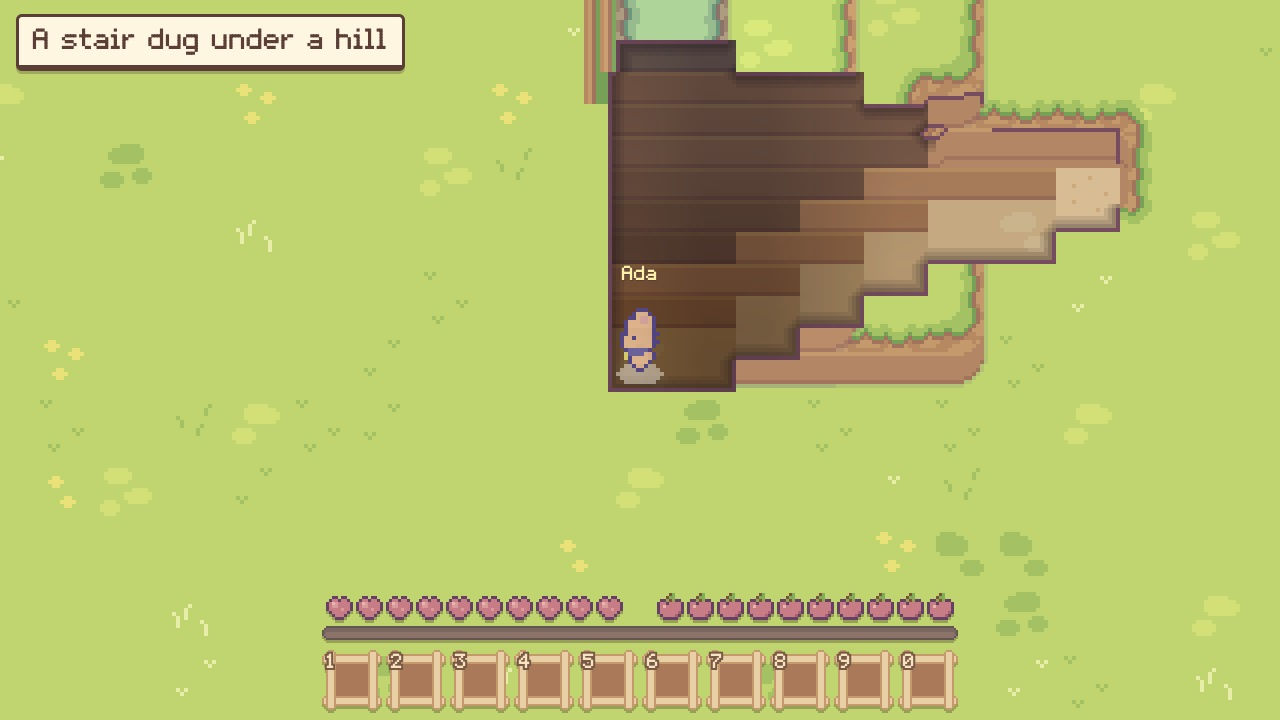
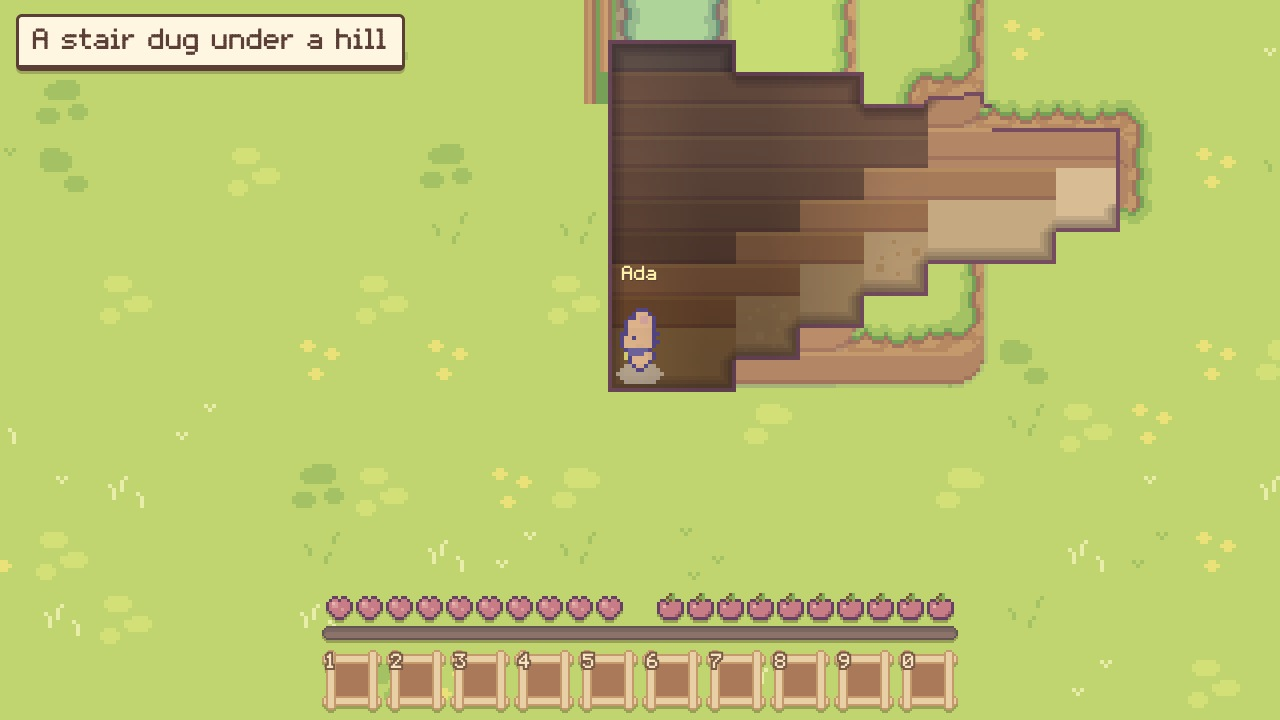
fix(web): a wall cut through is its bands and no more: no hook, no strip
A wall cut through is its bands and no more: no hook, no strip where a roofed stair meets an open pit ("weird artefact here"); the demo's pages name their files with the build's mark

The slivers made into wall were not marked as wall, so no line ran beside them; the end of a ledge that hung from the
roof's side and the band under it stood in the pit's wall, two px out of step; the meadow's set-in edge beside a pit,
painted a level down, was taken for ground level with its floor. tools/build_pages.py: every script, style, clip, the
worker and the game's Python get ?v=<the build's hash>, so a page loaded again after a publish is the new build.

Claude-Session: https://claude.ai/code/session_011zaXs2MUMAd8vYwC7YncED

diff --git a/src/megastructure/web/js/xraycut.js b/src/megastructure/web/js/xraycut.js
@@ -10,11 +10,11 @@
 //    earth stopped square against the grass). Not where the land's own edge is (round a hole open to the sky: its
 //    grass hangs there), nor toward ground that goes on level with it (a way out).
 // c: the picture's {W, h (px), w (tiles), R (its rect of tiles), y (its top, art px), see, seen, floor, floors, place,
-// rocks}. -> {px: what to lay over it, cut: the tiles of 1, more: the px it added to seen, line: the px of the
+// rocks, paint (its px as the land's painter left them)}. -> {px: what to lay over it, cut: the tiles of 1, more: the px it added to seen, line: the px of the
 // outline round the place where it is under a roof, dug or cut (xrayviews.js; null: no such place, a hill in front and
 // no more)}
 const CUT = {earth: 110, ink: [112, 70, 58], lip: [.34, .22, .11]};   // how dark earth cut through is (of 255); the edge's ink; its shadow, a px each
-function xrayCut({W, h, w, R, y, see, seen, floor, floors, place, rocks}) {
+function xrayCut({W, h, w, R, y, see, seen, floor, floors, place, rocks, paint}) {
   const n = W * h, px = new Uint32Array(n), al = new Float32Array(n), fill = new Uint8Array(n), cuts = new Map(), sa = CUT.earth / 255;
   const soil = colsOf(hillSheet(0)).bands[1], earth = [0, 1, 2].map((q) => soil[q] * (1 - sa) + [30, 20, 28][q] * sa);
   let more = 0;
@@ -38,23 +38,38 @@ function xrayCut({W, h, w, R, y, see, seen, floor, floors, place, rocks}) {
   for (const [k, lv] of cuts) { const [x, ty] = k.split(",").map(Number); deepT[(ty - R.y) * w + x - R.x] = 1; cutLv.set((ty - R.y) * w + x - R.x, lv); }
   const lvOf = (i, j) => (i >= 0 && i < w && j >= 0 && j < R.h && cutLv.has(j * w + i) ? cutLv.get(j * w + i) : lvT[at(i, j)]);
   const deep = new Uint8Array(n), dist = new Uint8Array(n).fill(255), todo = [], wall = new Map();
+  const roofT = new Uint8Array(w * R.h), band = (k, m) => colsOf(hillSheet(k)).bands[m <= 0 ? 0 : m >= 7 ? 2 : 1];
+  for (const k of floor.keys()) { const [x, ty] = k.split(",").map(Number), i = x - R.x, j = ty - R.y; if (i >= 0 && i < w && j >= 0 && j < R.h) roofT[j * w + i] = 1; }
+  const rows = (i, j) => { const f0 = lvOf(i, j), Y = (R.y + j) * 16 - y; return [Y, Y - shOf(Math.max(f0, lvOf(i, j - 1))), Y - shOf(f0)]; };   // (a tile's line at sea level, the top of the wall behind it, the top of its floor)
   for (let j = 0; j < R.h; j++) for (let i = 0; i < w; i++) if (deepT[j * w + i]) {
-    const f0 = lvOf(i, j), Y = (R.y + j) * 16 - y, r0 = Y - shOf(Math.max(f0, lvOf(i, j - 1))), r1 = Y - shOf(f0) + 16;
-    const roofed = floor.has((R.x + i) + "," + (R.y + j));
-    for (let r = Math.max(0, r0 - 3); r < Math.min(h, r1); r++) for (let f = r * W + i * 16, e = f + 16; f < e; f++) {
-      const back = roofed && r >= r0 && r < Y - shOf(f0), put = fill[f] || see.state[f] === 1;   // (back: over the floor of a tile under a roof: the wall behind it, whatever was painted)
+    const [Y, r0, top] = rows(i, j), t = j * w + i, roofed = roofT[t];
+    for (let r = Math.max(0, r0 - 3); r < Math.min(h, top + 16); r++) for (let f = r * W + i * 16, e = f + 16; f < e; f++) {
+      const back = roofed && r >= r0 && r < top, put = fill[f] || see.state[f] === 1;   // (back: over the floor of a tile under a roof: the wall behind it, whatever was painted)
       if ((!put && !back) || (r < r0 && see.band[f] !== 1)) continue;
       if (put && !fill[f]) {                                 // (of what was painted there: the place's floors, and the wall behind this tile, its bands and
-        const ts = tileOf(f), tf = tileOf(f, 4), t = j * w + i;   //  what shows between them of the tile behind, painted a level down; not land that stands in front
-        if (see.band[f] === 2 || (see.band[f] === 1 ? tf !== t : ts < 0 || (!deepT[ts] && (ts !== t - w || see.lev[f] >= lvT[at(ts % w, ts / w | 0)])))) continue;   //  of it or beside it: its top, its wall, a ledge)
+        const ts = tileOf(f), tf = tileOf(f, 4);            //  what shows between them of the tile behind, painted a level down; not land that stands in front
+        if (see.band[f] === 2 ? !back : see.band[f] === 1 ? tf !== t : ts < 0 || (!deepT[ts] && (ts !== t - w || see.lev[f] >= lvT[at(ts % w, ts / w | 0)]))) continue;   //  of it or beside it: its top, its wall, a ledge)
       }
       deep[f] = 1;
       if (!back || fill[f]) continue;
-      // (where the land's painter put no band there, a sliver of the land shows in the wall, through the set-in edge
-      // of a hill that steps down beside it: the wall's band, as it paints it)
-      const k = put && see.band[f] === 1 ? see.lev[f] : Math.ceil((Y - r) / 8), m = r - (Y - shOf(k));
-      if (!put || see.band[f] !== 1 || !seen[f]) { wall.set(f, colsOf(hillSheet(k)).bands[m <= 0 ? 0 : m >= 7 ? 2 : 1]); if (!seen[f]) { seen[f] = 1; more++; } see.lev[f] = k; }
+      // (a wall cut through is its bands, a layer each, and no more: where the land's painter put something else
+      // there, a sliver of grass through the set-in edge of a hill that steps down beside it, the end of a ledge that
+      // hung from the roof's side and the band under it, two px out of step: the band, as it paints it)
+      const k = Math.ceil((Y - r) / 8);
+      if (!put || see.band[f] !== 1 || !seen[f] || see.lev[f] !== k) { wall.set(f, band(k, r - (Y - shOf(k)))); if (!seen[f]) { seen[f] = 1; more++; } see.lev[f] = k; see.band[f] = 1; }
       if (landSolid(R.x + i, R.y + j, k)) al[f] = sa;        // 2
+    }
+  }
+  // (and beside a tile under a roof, the wall of one open to the sky: the four px of it next to that tile had the same
+  // leftovers of the roof's side: they are the wall's own px from further in, row for row)
+  for (let j = 0; j < R.h; j++) for (let i = 0; i < w; i++) if (deepT[j * w + i] && !roofT[j * w + i]) for (const d of [-1, 1]) {
+    if (i + d < 0 || i + d >= w || !roofT[j * w + i + d]) continue;
+    const [, r0, top] = rows(i, j);
+    for (let r = Math.max(0, r0 - 2); r < Math.min(h, top); r++) for (let c = 0; c < 4; c++) {
+      const col = d < 0 ? c : 15 - c, f = r * W + i * 16 + col, src = r * W + i * 16 + (d < 0 ? 4 : 11);
+      if (!deep[src] || fill[src] || see.band[src] === 2) continue;
+      const v = wall.get(src) || [paint[src] & 255, paint[src] >> 8 & 255, paint[src] >> 16 & 255];
+      wall.set(f, v); deep[f] = 1; if (!seen[f]) { seen[f] = 1; more++; } see.lev[f] = see.lev[src]; see.band[f] = see.band[src];
     }
   }
   // (q: beside f, over it or under it: not of the place; and not the land's own edge, the top of a tile beside or
@@ -68,7 +83,8 @@ function xrayCut({W, h, w, R, y, see, seen, floor, floors, place, rocks}) {
     if (deep[q]) return false;
     if (see.state[q] !== 1) return true;
     if (rim && !see.band[q] && rimT[Math.max(0, tileOf(q))]) return false;
-    return see.band[f] || see.band[q] || see.lev[q] > see.lev[f];
+    const ts = tileOf(q);                                    // (ground level with a floor: a tile's own top, not what shows of it a level down through its set-in edge)
+    return see.band[f] || see.band[q] || see.lev[q] > see.lev[f] || ts < 0 || see.lev[q] < lvT[at(ts % w, ts / w | 0)];
   };
   // (line: the outline's px, xrayviews.js: every px of the place at its edge, seen through or not, and beside the
   // land's own rim too; not where its floor goes on level with the ground outside: "the line shouldn't show up at

diff --git a/src/megastructure/web/js/xray.js b/src/megastructure/web/js/xray.js
@@ -213,7 +213,7 @@ function* xrayPicture(tx, key, near) {
       }
     }
   };
-  const {flat: over} = yield* reliefSteps(R, ground, see);
+  const {flat: over, out: paint} = yield* reliefSteps(R, ground, see);
   const holes = caveMouths(near, R.x * 16, y, W, h, (x, ty) => rock(x, ty) || floor.has(x + "," + ty));   // (the mouths of caves in what is kept: caves.js)
   if (holes) over.getContext("2d").drawImage(holes, -OV_M, -OV_M);
   // of it, what the rock is drawn over: the kept ground that is on top there (seen), and its water
@@ -222,7 +222,7 @@ function* xrayPicture(tx, key, near) {
   let any = 0;
   for (let f = 0; f < seen.length; f++) if ((see.cover[f] || XRAY.whole) && see.state[f] === 1) { seen[f] = 1; any++; m[f] = 0xff000000; if (see.wet[f]) wm[f] = 0xff000000; }
   const og = over.getContext("2d"); og.globalCompositeOperation = "destination-in"; og.drawImage(pxCanvas(m, W, h), 0, 0);
-  const {px: earth, cut, more, line} = xrayCut({W, h, w, R, y, see, seen, floor, floors, place, rocks});   // (the earth cut through, and the cut's edge: xraycut.js)
+  const {px: earth, cut, more, line} = xrayCut({W, h, w, R, y, see, seen, floor, floors, place, rocks, paint});   // (the earth cut through, and the cut's edge: xraycut.js)
   any += more; og.globalCompositeOperation = "source-over"; og.drawImage(pxCanvas(earth, W, h), 0, 0);
   const mouths = [...floor.keys()].filter((k) => { const [fx, fy] = k.split(",").map(Number); return [[1, 0], [-1, 0], [0, 1], [0, -1]].some(([dx, dy]) => topAt(fx + dx, fy + dy) < topAt(fx, fy)); }).sort().join(" ");
   return {key, x: R.x * 16, y, w: W, h, over, wet: pxCanvas(wm, W, h), seen, line, any, rock: rocks, floor, cut, mouths, place: floors, lev: see.lev, depth: underDepths(floor), rx: R.x, ry: R.y, rw: w, rh: R.h};

diff --git a/src/megastructure/web/js/relief.js b/src/megastructure/web/js/relief.js
@@ -131,7 +131,7 @@ function levelShape(R, k, shape, ta, tb, keep, of) {
 }
 // Painted lowest level first into one picture, a few rows a step (so no frame waits on a whole block). ground: the
 // rect's tiles as painted flat, a Uint32 a px (a block's: tiles.js). The picture is px too, worked out here and made
-// a canvas once, at the end: nothing of it is put together by the GPU. -> {flat, up, maxLv, minLv}: the picture is
+// a canvas once, at the end: nothing of it is put together by the GPU. -> {flat, up, maxLv, minLv, out}: the picture is
 // `up` px taller than the rect at its top (the highest level's lift), the lowest level's worth at its foot.
 // see (xray.js): the land without the rock in the way. Only the tiles see.keep says are painted, exactly as they are
 // with that rock there (every shape and colour is still worked out from the whole land), into the rows c0..c1 of the
@@ -246,7 +246,7 @@ function* reliefSteps(R, ground, see) {
     yield;
   }
   const flat = out && pxCanvas(out, W, tall);            // (handed to the GPU whole, once)
-  return {flat, up, maxLv, minLv};
+  return {flat, up, maxLv, minLv, out};
 }
 // A block's: its picture, and where that has anything in it (a small hill in a wide plain: the rest is not painted,
 // frame after frame): the raised tiles, their ledges beside them, their walls down to the lowest ground

diff --git a/tools/build_pages.py b/tools/build_pages.py
@@ -5,6 +5,8 @@
 The page loads js/local.js, which boots the real server inside the tab; nothing else differs from the served client.
 """
 
+import hashlib
+import re
 import shutil
 import subprocess
 import sys
@@ -39,8 +41,28 @@ def build(out: Path):
     assert box in page, "the join box changed"
     (out / "index.html").write_text(page.replace(box, box + '\n    <a class="item" href="showcase.html"><span>What\'s new</span></a>'))
     music_page(out)
+    stamp(out)
     (out / ".nojekyll").write_text("")
     print(f"built {out} ({sum(f.stat().st_size for f in out.rglob('*') if f.is_file()) // 1024} KB)")
+
+
+def stamp(out: Path):
+    """Every script, style and clip a page names, the worker and the game's Python get the build's own mark (?v=...,
+    from what the build holds): GitHub Pages lets a browser keep a file ten minutes, and a phone keeps a clip longer,
+    so a page loaded again after a publish showed the build before. ("Now update the demo": it was.)"""
+    mark = hashlib.sha1()
+    for f in sorted(out.rglob("*")):
+        if f.is_file() and f.suffix in (".js", ".css", ".zip", ".html", ".mp4", ".jpg", ".png", ".gif", ".json"):
+            mark.update(f.relative_to(out).as_posix().encode() + f.read_bytes())
+    v = mark.hexdigest()[:10]
+    for page in ("index.html", "showcase.html", "music.html"):
+        if (out / page).exists():
+            text = (out / page).read_text()
+            (out / page).write_text(re.sub(r'((?:src|href|poster)=")((?:js|css)/[^"?#]+|[^"/:?#]+\.(?:mp4|jpg|png|gif))"', rf'\1\2?v={v}"', text))
+    for name, old in (("js/local.js", '"js/local_worker.js"'), ("js/local_worker.js", '"../py.zip"')):
+        text = (out / name).read_text()
+        assert old in text, f"{name} no longer names {old}"
+        (out / name).write_text(text.replace(old, old[:-1] + f'?v={v}"'))
 
 
 def music_page(out: Path):

diff --git a/tests/e2e/test_e2e_demo.py b/tests/e2e/test_e2e_demo.py
@@ -30,6 +30,9 @@ def test_the_demo_plays_and_remembers_the_world(browser, site):
     page.on("pageerror", lambda e: errors.append(str(e)))
     page.goto(site)
     page.wait_for_function("blocks.size > 0", timeout=90000)       # Pyodide comes from the CDN on first load
+    # every script the page names has the build's mark: a page loaded again after a publish is the new build at once
+    marks = page.evaluate("[...document.scripts].filter((s) => s.getAttribute('src') && s.getAttribute('src').startsWith('js/')).map((s) => s.getAttribute('src').split('?v=')[1])")
+    assert len(marks) > 50 and all(marks) and len(set(marks)) == 1, marks[:5]
     page.fill("#name", "visitor")
     page.click("#join")
     page.wait_for_function("meObs !== null", timeout=20000)

diff --git a/JOURNAL.md b/JOURNAL.md
@@ -2174,4 +2174,18 @@ not its body).
 - Then, on the sheet: "The line shouldn't show up at intersections with same level": the outline closed a cave's
   doorway and both ends of a passage, where the floor goes on level with the meadow. It is open there, as the
   cut's own line already was. Tests: no line across a cave's way out; the hill beside a room is as it is.
+- Then, a crop of where the stair under its roof meets the open pit: "Weird artefact here". A px map of the corner
+  showed three things. The slivers made into wall kept their level and were not marked as wall, so against the
+  meadow beside them they counted as ground that goes on level with it: no line for the top two px and down the
+  side. The end of a ledge that had hung from the roof's side (two px by two) and the band under it, two px out of
+  step with the wall's, stood in the pit's wall: the line went round them in a hook. And along the pit's own side the
+  meadow tile's set-in edge shows two px of itself painted a level down: taken for ground level with the floor, no
+  line there. Now: a wall cut through is its bands and no more (a px there that is anything else, or a band out of
+  step, is the band as the painter paints it); the four px of an open hole's wall next to a roofed tile are that
+  wall's own px from further in (relief.js hands its px over); and ground level with a floor is a tile's own top,
+  not what shows of it a level down.
+- The demo's pages name every script, style and clip, the worker and the game's Python with the build's own mark
+  (tools/build_pages.py: stamp): GitHub Pages lets a browser keep a file ten minutes and a phone keeps a clip
+  longer, so a page loaded again after a publish could be the build before ("Now update the demo": it was, the
+  files compared equal).
 
